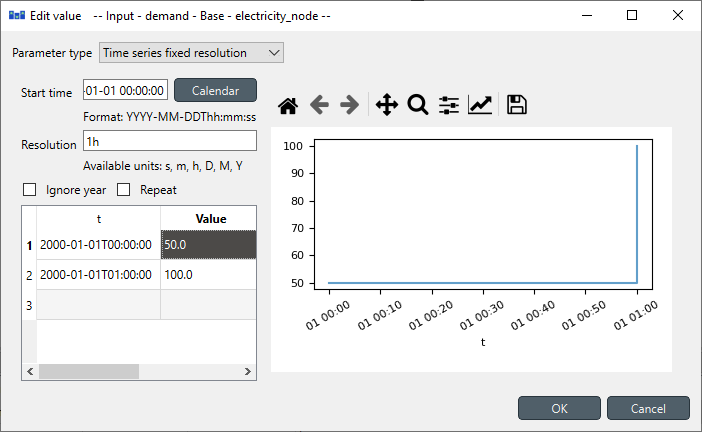
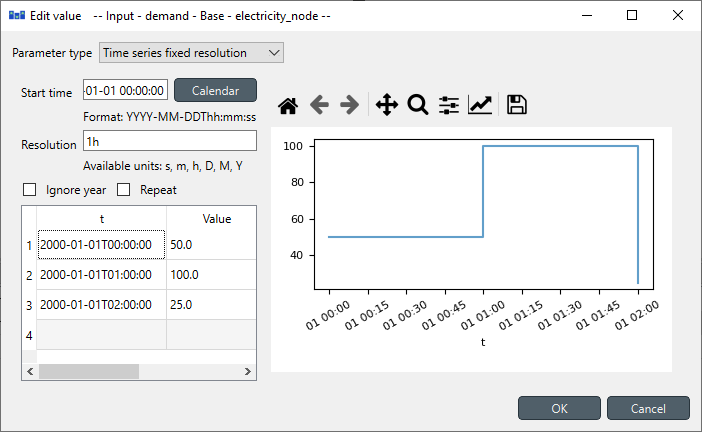
Add more explanations and figures to the tutorial

diff --git a/docs/src/tutorial/ramping.md b/docs/src/tutorial/ramping.md
@@ -12,8 +12,8 @@ The ramping constraint limit refers to the maximum rate at which a power unit ca
 
 This tutorial is built on top of the Simple System. The main changes to that system are:
 
-- The demand at *electricity\_node* is a 2-hour time series instead of a unique value
-- The *power\_plant\_a* has ramp limit of 10%
+- The demand at *electricity\_node* is a 3-hour time series instead of a unique value
+- The *power\_plant\_a* has ramp limit of 10% for both up and down
 
 This tutorial includes a step-by-step guide to include the parameters to help analyze the results in SpineOpt and the ramping constraints concepts.
 
@@ -40,7 +40,7 @@ In this tutorial, you will learn how to add ramping constraints to the Simple Sy
 
 ![image](figs_ramping/ramping_electricity_demand.png)
 
-Notice that there is only demand values for `2000-01-01T00:00:00` and `2000-01-01T01:00:00`. Therefore, we need to update the start and end of the model. But first, let's change the temporal block.
+Notice that there is only demand values for `2000-01-01T00:00:00` and `2000-01-01T02:00:00`. Therefore, we need to update the start and end of the model. But first, let's change the temporal block.
 
 ### Editing the temporal block
 
@@ -66,7 +66,7 @@ Since the default resolution of the Simple System was *1D*, the start and end da
 
 ![image](figs_ramping/ramping_model_start.png)
 
-- Repeat the procedure for the *model\_end* parameter, but now the value is `2000-01-01T02:00:00`. Notice that since the demand goes until `2000-01-01T01:00:00` the model must finish in the second hour to properly account for the first hour. The final values should look like that the image below.
+- Repeat the procedure for the *model\_end* parameter, but now the value is `2000-01-01T03:00:00`. Notice that since the demand goes until `2000-01-01T02:00:00` the model must finish in the second hour to properly account for the first hour. The final values should look like that the image below.
 
 ![image](figs_ramping/ramping_model_start_and_end.png)
 
@@ -96,25 +96,35 @@ The image above shows the electricity flow results for both power plants. As exp
 
 ## Step 2 - Include the ramping limit
 
-Let's consider the input data where the *power\_plant\_a* has a ramping limit of *10%*, meaning that the change between two time steps can't be greater than *10MW* (since the plant 'a' has a unit capacity of *100MW*).
+Let's consider the input data where the *power\_plant\_a* has a ramping limit of *10%* in both directions (i.e., up and down), meaning that the change between two time steps can't be greater than *10MW* (since the plant 'a' has a unit capacity of *100MW*).
 
 ### Adding the ramping limit
 
 - In *Relationship tree*, expand the *unit\_\_to_node* class and select *power\_plant\_a | electricity\_node*.
 
-- In the *Relationship parameter* table, select the *ramp\_up\_limit* parameter and the *Base* alternative, and enter the value *0.1* as seen in the image below. This will set the ramping limit for *power\_plant\_a*.
+- In the *Relationship parameter* table, select the *ramp\_up\_limit* parameter and the *Base* alternative, and enter the value *0.1* as seen in the image below. This will set the ramping up limit for *power\_plant\_a*.
 
-![image](figs_ramping/ramping_plant_a_ramp_up_limit.png)
+- In the *Relationship parameter* table, select the *ramp\_down\_limit* parameter and the *Base* alternative, and enter the value *0.1* as seen in the image below. This will set the ramping up limit for *power\_plant\_a*.
+
+![image](figs_ramping/ramping_plant_a_ramp_limits.png)
+
+The current version of SpineOpt utilizes two additional parameters to limit the ramps during the start-up and the shutdown of the unit. Therefore, you must configure these parameters as follows:
+
+- In the *Relationship parameter* table, select the *max\_startup\_ramp* parameter and the *Base* alternative, and enter the value *0.1* as seen in the image below. This will set the ramping up limit for *power\_plant\_a*.
+
+- In the *Relationship parameter* table, select the *max\_shutdown\_ramp* parameter and the *Base* alternative, and enter the value *0.1* as seen in the image below. This will set the ramping up limit for *power\_plant\_a*.
+
+![image](figs_ramping/ramping_plant_a_ramp_limits_startup_shutdown.png)
 
 When you're ready, save/commit all changes to the database.
 
-### Executing the workflow with ramp up limit
+### Executing the workflow with ramp limits
 
 - Go back to Spine Toolbox's main window, and hit the **Execute project** button ![image](figs_simple_system/play-circle.png) from the tool bar. You should see 'Executing All Directed Acyclic Graphs' printed in the *Event log* (at the bottom left by default).
 
 - Select the 'Run SpineOpt' Tool. You should see the output from SpineOpt in the *Julia Console* after clicking the *object activity control*.
 
-### Examining the results with ramp up limit
+### Examining the results with ramp limits
 
 - Select the output data store and open the Spine DB editor. You can already inspect the fields in the displayed tables or use a pivot table.
 
@@ -126,6 +136,36 @@ When you're ready, save/commit all changes to the database.
 
 - The *Pivot table* will be populated with results from the SpineOpt run. It will look something like the image below.
 
-![image](figs_ramping/ramping_results_no_ramping_constraint.png)
+![image](figs_ramping/ramping_results_ramping_constraint.png)
 
-The image above shows the electricity flow results for both power plants. As expected, the *power\_plant\_a* (i.e., the cheapest unit) output is limited to it ramp up limit, therefore it can't go from *50MW* to *100MW* and therefore, the *power\_plant\_b* (i.e., the more expensive unit) must produce *40MW* to cover the demand that plant 'a' can't. As shown here, the ramping limits might lead to a higher costs in power systems.
+The image above shows the electricity flow results for both power plants. As expected, the *power\_plant\_a* (i.e., the cheapest unit) output is limited to its ramp up and down limits, therefore it can't follow the demand changes as before. Therefore, the *power\_plant\_b* (i.e., the more expensive unit) must produce to cover the demand that plant 'a' can't due to its ramping limitations. As shown here, the ramping limits might lead to a higher costs in power systems.
+
+*But...something is more here...Can you tell what?* :anguished:
+
+It is important to note that the optimal solution we have calculated assumes that the unit 'a' was already producing electricity before the *model\_start* parameter. This is because we have not defined an initial condition for the flow of the unit. Therefore, the flow at the first hour is the most cost-effective solution under this assumption. However, what if we changed this assumption and assumed that the unit had not produced any flow before the *model\_start* parameter? If you are curious to know the answer, join me in the next section.
+
+## Step 3 - Include a initial condition to the flow
+
+### Adding the initial flow
+
+- In *Relationship tree*, expand the *unit\_\_to_node* class and select *power\_plant\_a | electricity\_node*.
+
+- In the *Relationship parameter* table, select the *initial\_unit\_flow* parameter and the *Base* alternative, and enter the value *0.0* as seen in the image below. This will set the initial flow for *power\_plant\_a*.
+
+![image](figs_ramping/ramping_plant_a_initial_flow.png)
+
+When you're ready, save/commit all changes to the database.
+
+### Executing the workflow with ramp limits with initial conditions
+
+You know the drill! :wink:
+
+### Examining the results with ramp limits with initial conditions
+
+Create a the *Pivot table* with the latest results. It will look something like the image below.
+
+![image](figs_ramping/ramping_results_ramping_constraint_ini_cond.png)
+
+Here, we can see the impact of the initial condition; no longer can the unit have a flow change than its ramp-up limit for the first hour. Therefore, the optimal solution under this assumption changes compared to the previous section.
+
+This example highlights the importance of considering initial conditions as a crucial assumption in energy system modelling optimization.
